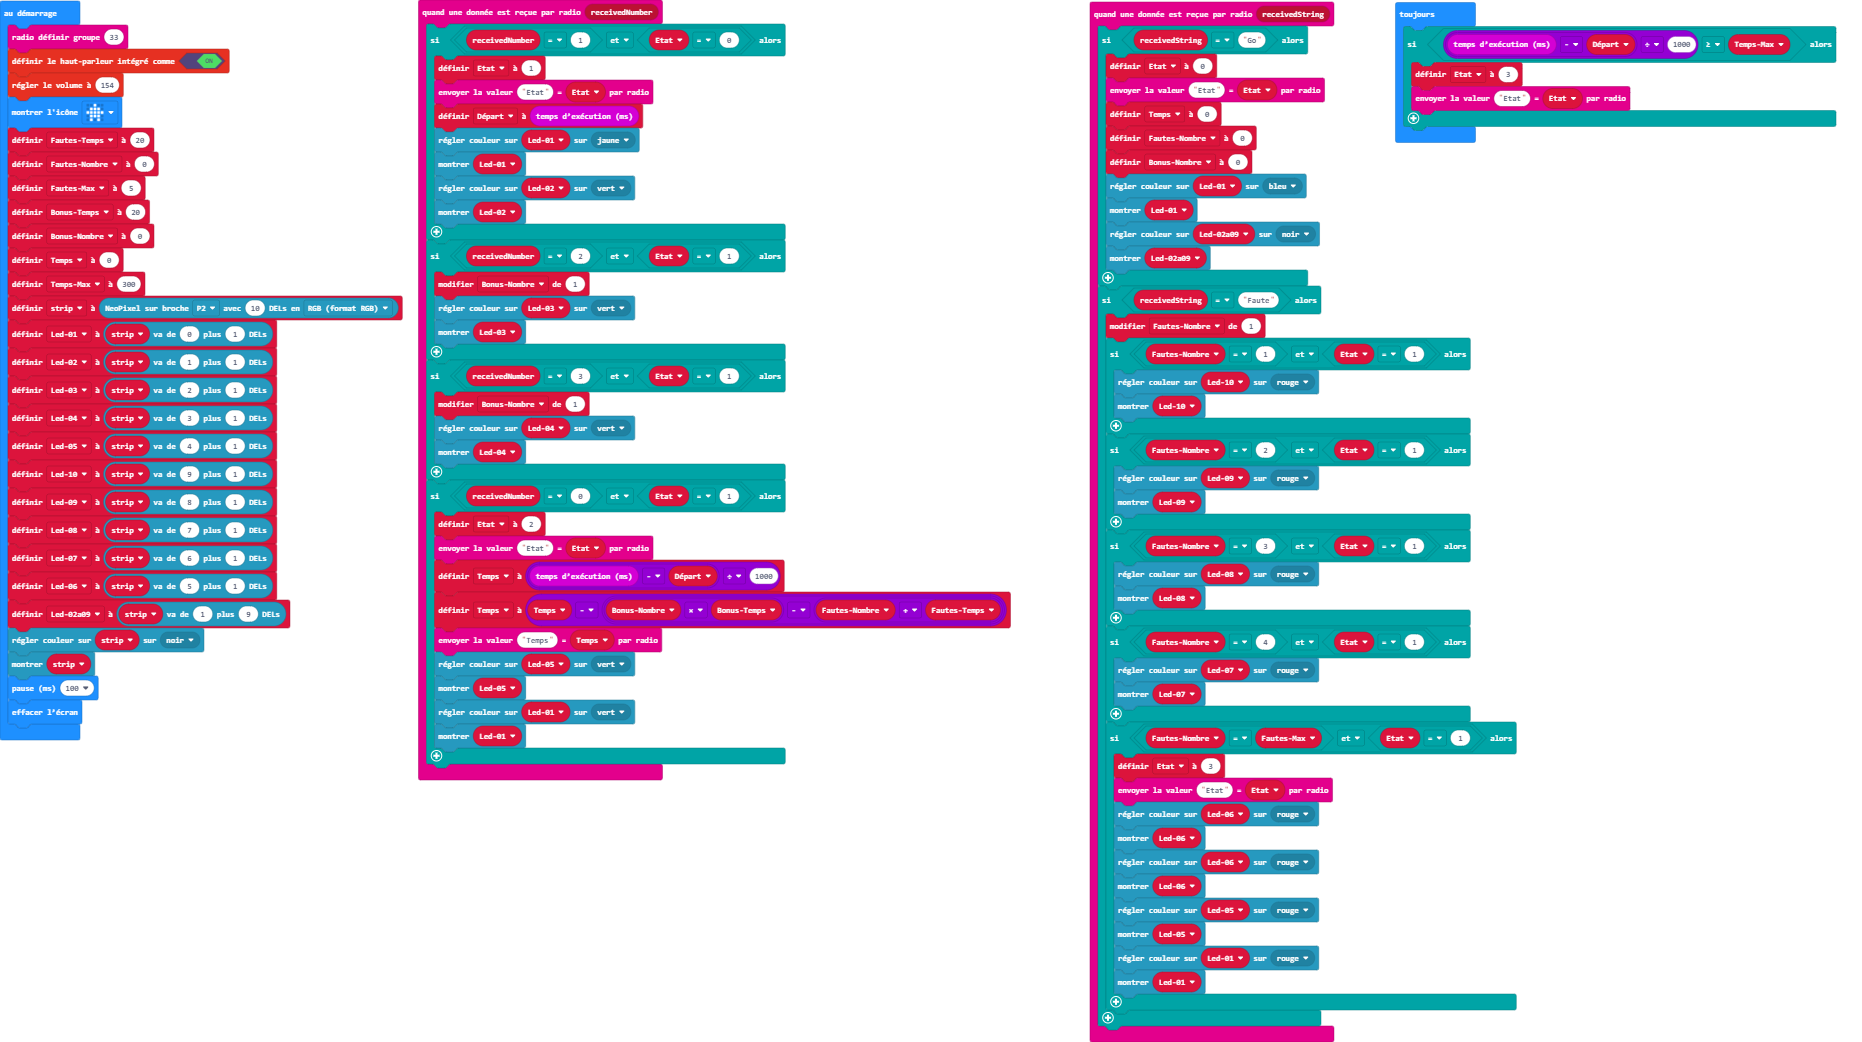
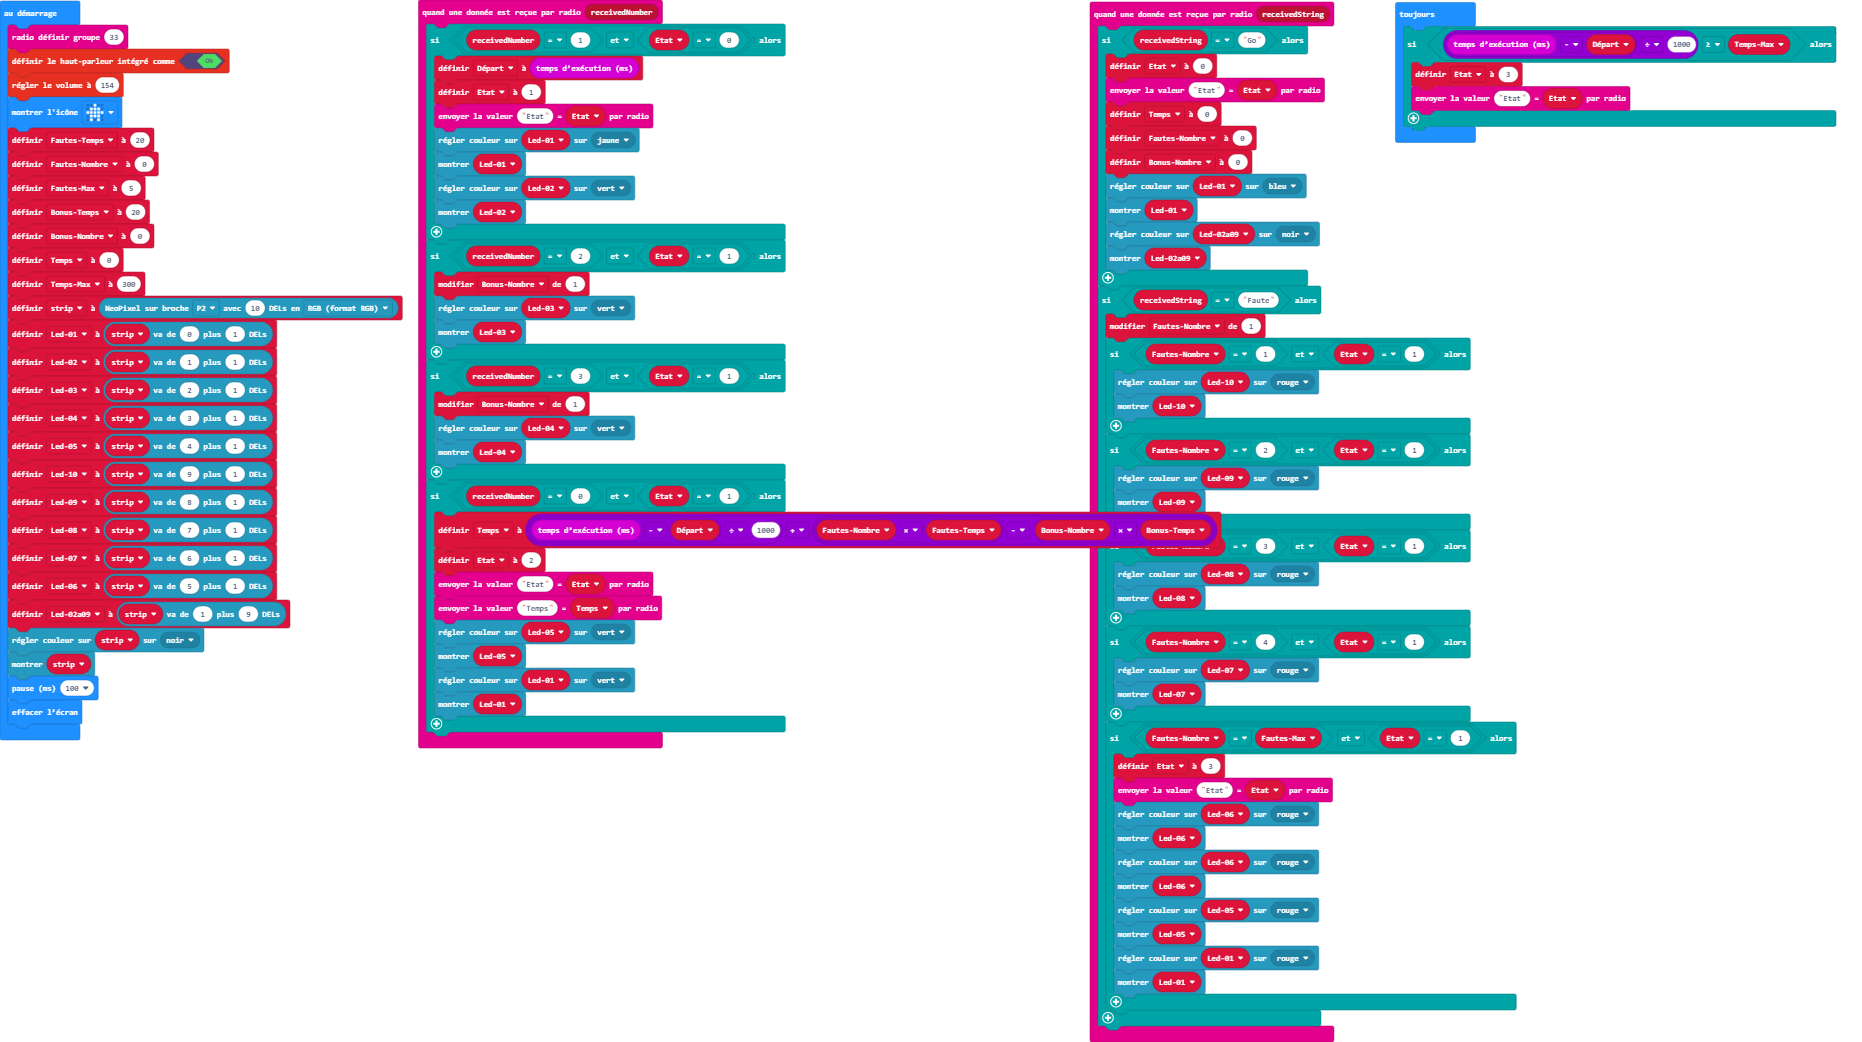
Correction du chronomètre

Changed region(s): [[0.218, 0.4914, 0.6541, 0.7678], [0.218, 0.0307, 0.3738, 0.1228]]

diff --git a/main.ts b/main.ts
@@ -1,8 +1,8 @@
 radio.onReceivedNumber(function (receivedNumber) {
     if (receivedNumber == 1 && Etat == 0) {
+        Départ = input.runningTime()
         Etat = 1
         radio.sendValue("Etat", Etat)
-        Départ = input.runningTime()
         Led01.showColor(neopixel.colors(NeoPixelColors.Yellow))
         Led01.show()
         Led02.showColor(neopixel.colors(NeoPixelColors.Green))
@@ -19,10 +19,9 @@ radio.onReceivedNumber(function (receivedNumber) {
         Led04.show()
     }
     if (receivedNumber == 0 && Etat == 1) {
+        Temps = (input.runningTime() - Départ) / 1000 + (FautesNombre * FautesTemps - BonusNombre * BonusTemps)
         Etat = 2
         radio.sendValue("Etat", Etat)
-        Temps = (input.runningTime() - Départ) / 1000
-        Temps = Temps - (BonusNombre * BonusTemps - (FautesNombre + FautesTemps))
         radio.sendValue("Temps", Temps)
         Led05.showColor(neopixel.colors(NeoPixelColors.Green))
         Led05.show()
